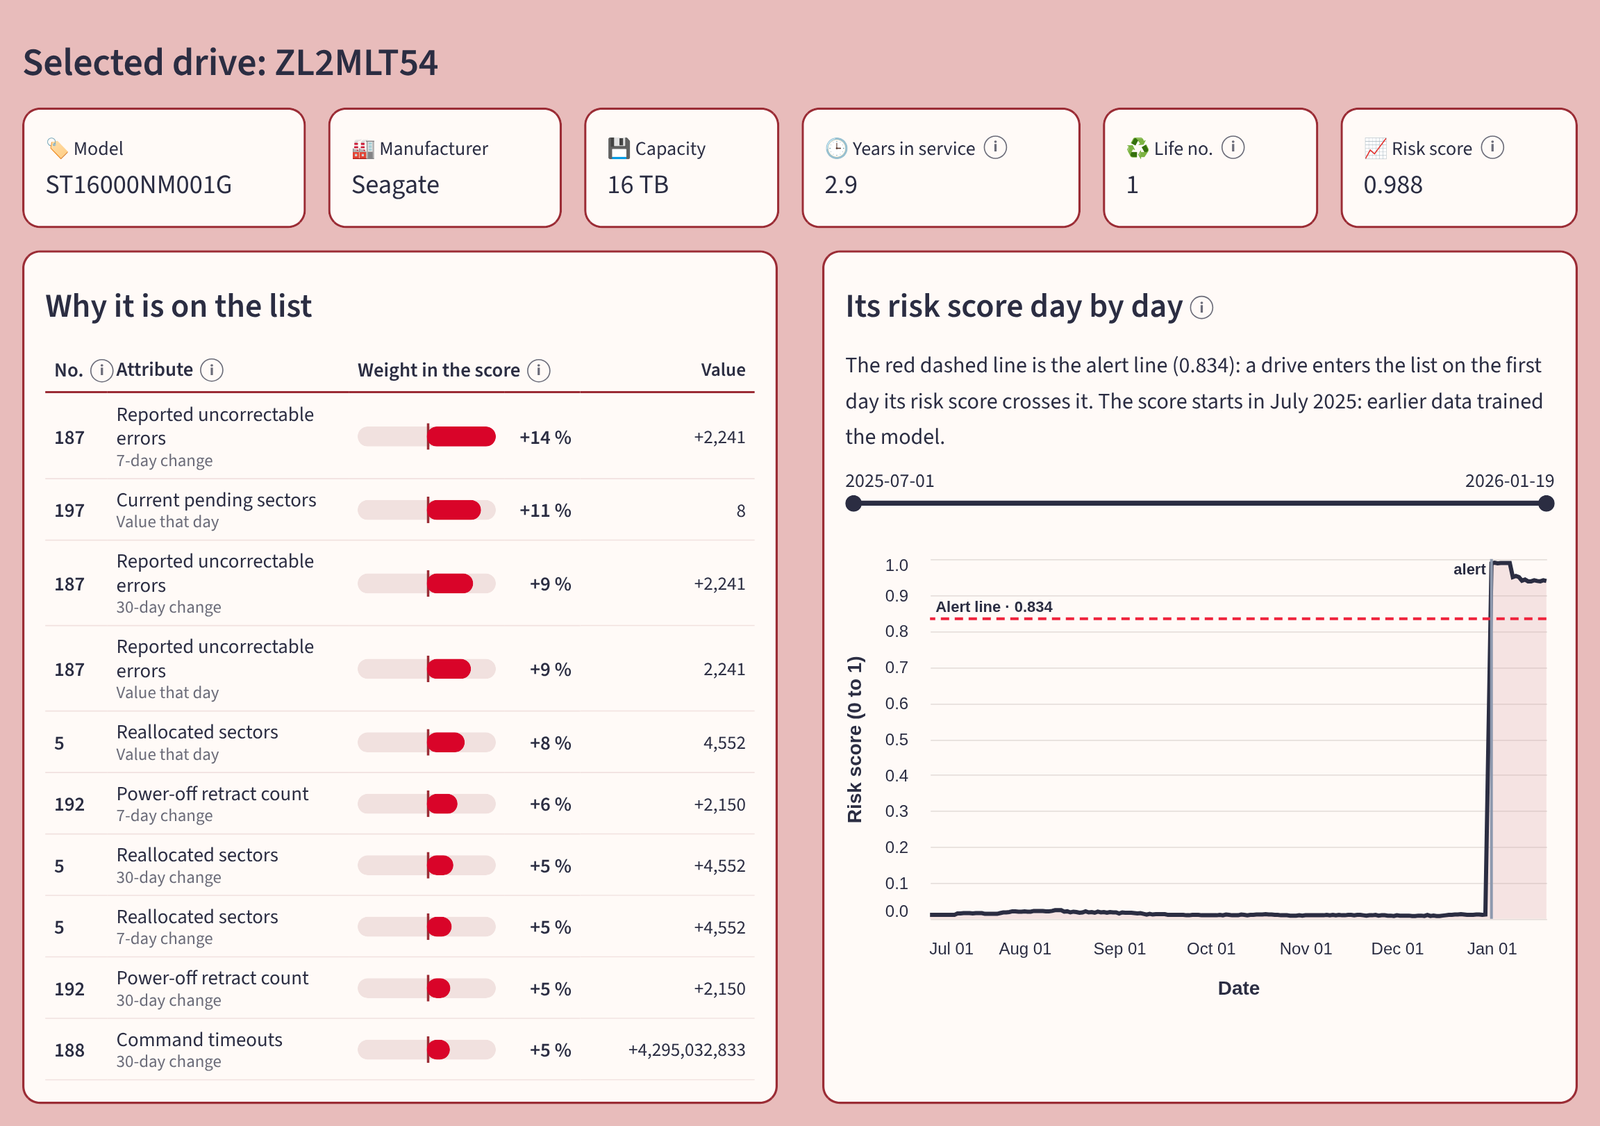
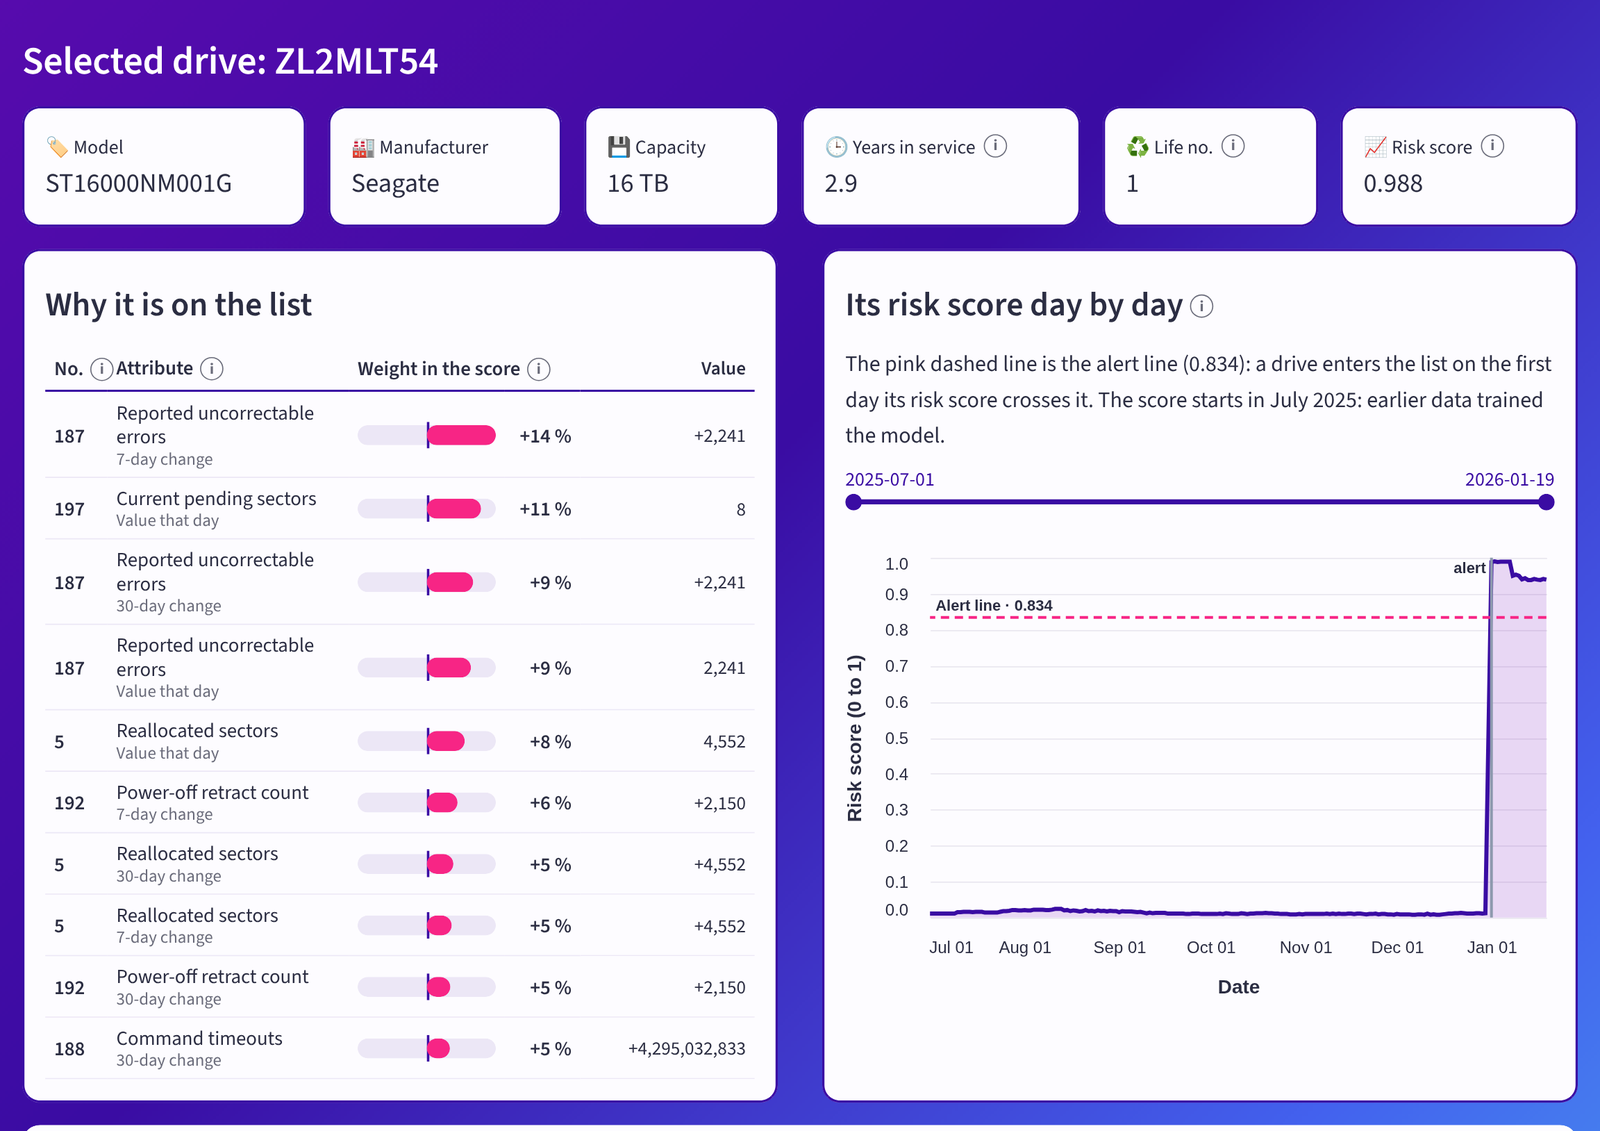
Add files via upload

diff --git a/README.md b/README.md
@@ -86,6 +86,18 @@ the last 7 or 30 days.
 
 The model is LightGBM, trained on every positive drive-day and 0.5 % of the negative ones.
 
+> **Decision**: LightGBM, without a comparison with XGBoost or CatBoost.
+>
+> **Why**: the three are gradient-boosted trees and, once tuned, perform about the same on tabular data (in
+> TabArena, NeurIPS 2025, their intervals overlap), while LightGBM tunes about 1.7 times faster than XGBoost and
+> 4 times faster than CatBoost. On a laptop without a GPU, with some 60 million drive-days to score per period,
+> speed meant more experiments. And the limit here is the signal, not the algorithm: a fifth of the test failures
+> give no warning in the S.M.A.R.T. counters at all.
+>
+> **Discarded**, for now: CatBoost, whose smoothed category statistics suit drive models with few failures. Here
+> the models with fewer than 10 training failures share one category instead; CatBoost is the first to try if
+> the drive model should weigh more.
+
 > **Decision**: the alert line is 0.834, the risk score at which the model detects the same 1,401 failures as the
 > 30-day rule in validation.
 >
@@ -136,9 +148,11 @@ the risk score and blue lowers it.
 The model watches the same counters as the rule of five, above all 197 (pending sectors), but it uses how high
 they are and how fast they change. Age barely weighs.
 
-An alert rarely means that the failure is close. Of the 6,429 first alerts of validation (leaving out 1 July, the
-start-up day), 308 (4.8 %) failed within 15 days and 1,734 (27.0 %) failed later, a median of 117 days after the
-alert. The other 4,189 (65.2 %) were still running in June 2026, and 87.3 % of them spent most of the days after
+An alert does not always mean that the failure is close, but it does mark a drive at much higher risk. Of the
+6,429 first alerts of validation (leaving out 1 July, the start-up day), 308 (4.8 %) failed within 15 days and
+1,734 (27.0 %) failed later, a median of 117 days after the alert: in all, 31.8 % failed within the next 6 to 12
+months, against 1.33 % of the whole fleet in a year (the drives running on 1 July 2025), about 24 times more. The
+other 4,189 (65.2 %) were still running in June 2026, and 87.3 % of them spent most of the days after
 the alert back below the line.
 
 > **Decision**: each drive life enters the list once, on the first day it crosses the line.
@@ -167,7 +181,8 @@ README that explains how to read it and run it on your computer.
 
 ## The notebooks
 
-The four notebooks tell the full story, with every decision and its reason. They are saved with their outputs.
+The four notebooks tell the full story, with every decision and its reason. They are saved with their outputs,
+so they can be read here; the pipeline that computes the data stays outside this repository.
 
 | Notebook | What it covers |
 |---|---|
@@ -176,44 +191,15 @@ The four notebooks tell the full story, with every decision and its reason. They
 | [03 · Baselines and model](notebooks/03_baselines_and_model.ipynb) | Evaluation per drive life, the rule of five, LightGBM, the comparisons and the alert line |
 | [04 · Results](notebooks/04_results.ipynb) | The test period, why detection drops there, what pushes the alerts (SHAP) and the limitations |
 
-## How to reproduce it
-
-You need [uv](https://docs.astral.sh/uv/) and about 40 GB of free disk. `uv sync` installs Python 3.14 and the
-exact library versions of `uv.lock`, and `uv run pytest` runs the tests. The data are not in the repository: the
-first step downloads them from Backblaze.
-
-```text
-.
-├── src/backblaze_hdd_failure_prediction/   the pipeline, one module per step, and the notebooks' code
-├── notebooks/                              the four notebooks
-├── output_figures/                         their figures and the app screenshots
-├── streamlit_dashboard_github/             the app, with its own data
-└── tests/
-```
-
-Each step runs from the project folder as `uv run python -m backblaze_hdd_failure_prediction.<step>`, in this
-order. Heavy steps work one day at a time, and we ran them under a 2 GB memory cap.
-
-| Step | What it writes |
-|---|---|
-| `ingest 2023Q3 2026Q2` | Bronze: the CSV files as Parquet |
-| `drives`, `inventory` | One row per drive, and drives and failures per model and quarter |
-| `clean 2023Q3 2026Q2` | Silver |
-| `exploration coverage`, `signal`, `episodes` | The exploration tables |
-| `gold lookups`, `gold build 2023Q3 2026Q2` | Gold |
-| `evaluation lives <quarter>` (2025Q3 to 2026Q2), `evaluation summary` | The rules, per life |
-| `train sample <quarter>` (2023Q3 to 2025Q4), `train search` | The training sample and the model |
-| `predict <quarter>` (2025Q3 to 2026Q2), `evaluation summary` | The risk scores, and the model against the rules |
-| `explain <quarter>` (2025Q3 to 2026Q2), `dashboard`, `evaluation failures` | SHAP of the first alerts, the app's tables and the failures by signal |
-
 ## Next versions
 
 - **v2, location:** whether failure rates change with where a drive sits (data centre, pod and slot) beyond its
   drive model, and the model with and without location.
-- **v3, model comparison:** LightGBM against XGBoost and CatBoost with the same tuning budget and bootstrap
-  intervals, logistic regression and drive model plus age as baselines, and results by group of drives.
-- **A possible v4:** TabM, a calibrated score, alerting again when a reviewed drive gets worse, and fleet-level
-  questions such as how many drives will fail.
+- **v3, a more useful score:** a calibrated score (a real probability of failing within 15 days), alerting again
+  when a reviewed drive gets worse, where the model fails by group of drives, and bootstrap intervals over drives.
+- **v4, time to failure:** survival analysis to estimate the risk of failing within 15, 30 or 90 days, and
+  fleet-level questions such as how many drives will fail next month, with logistic regression and drive model
+  plus age as baselines.
 
 ## Credits and licence
 
